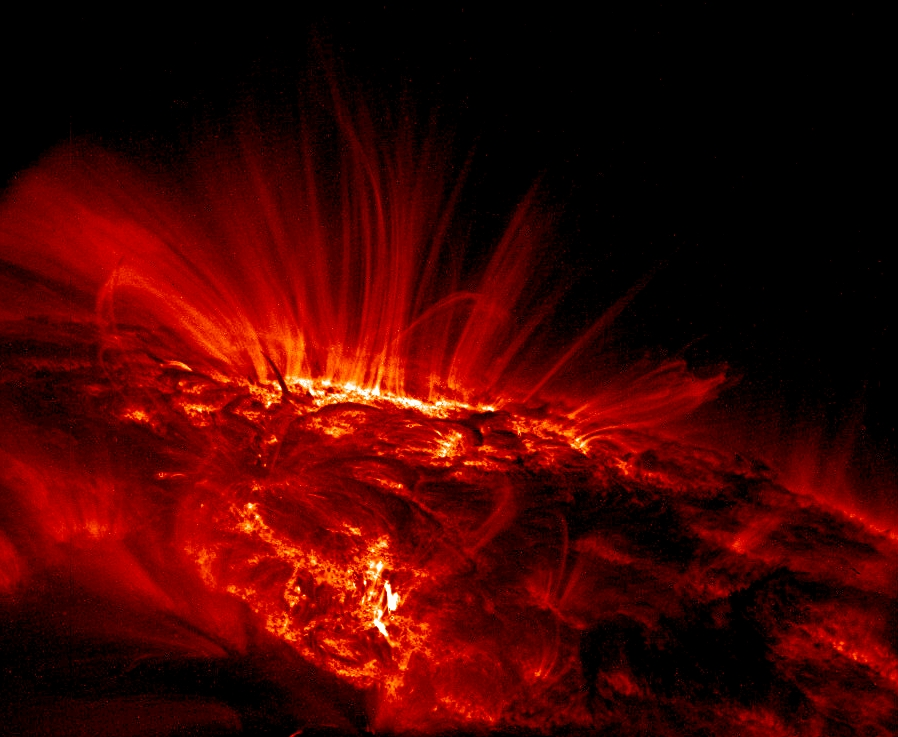
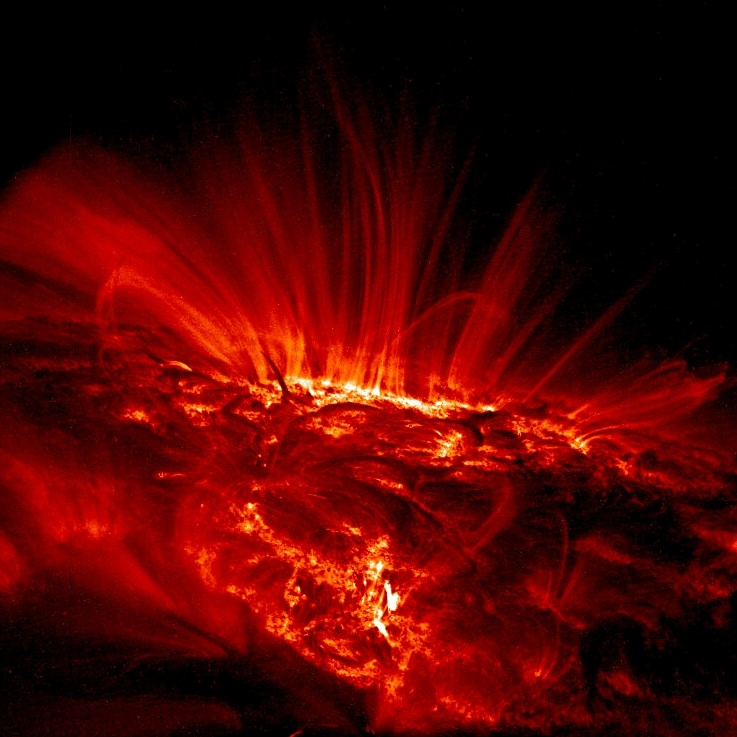
added cleaned up images for carosel

diff --git a/index.html b/index.html
@@ -53,13 +53,16 @@
                 <div id="carouselExampleControls" class="carousel slide" data-ride="carousel">
                     <div class="carousel-inner">
                         <div class="carousel-item active">
-                            <img class="d-block w-100" src="assets/images/M31Andromeda.jpg" alt="First slide">
+                            <img class="d-block w-100" src="assets/images/M27DumbellSq.jpg" alt="First slide">
                         </div>
                         <div class="carousel-item">
                             <img class="d-block w-100" src="assets/images/NGC6543catseye.jpg" alt="Second slide">
                         </div>
                         <div class="carousel-item">
                             <img class="d-block w-100" src="assets/images/jupiter.jpg" alt="Third slide">
+                        </div>
+                        <div class="carousel-item">
+                            <img class="d-block w-100" src="assets/images/M31Andromedasq.jpg" alt="Forth slide">
                         </div>
                     </div>
                     <a class="carousel-control-prev" href="#carouselExampleControls" role="button" data-slide="prev">
